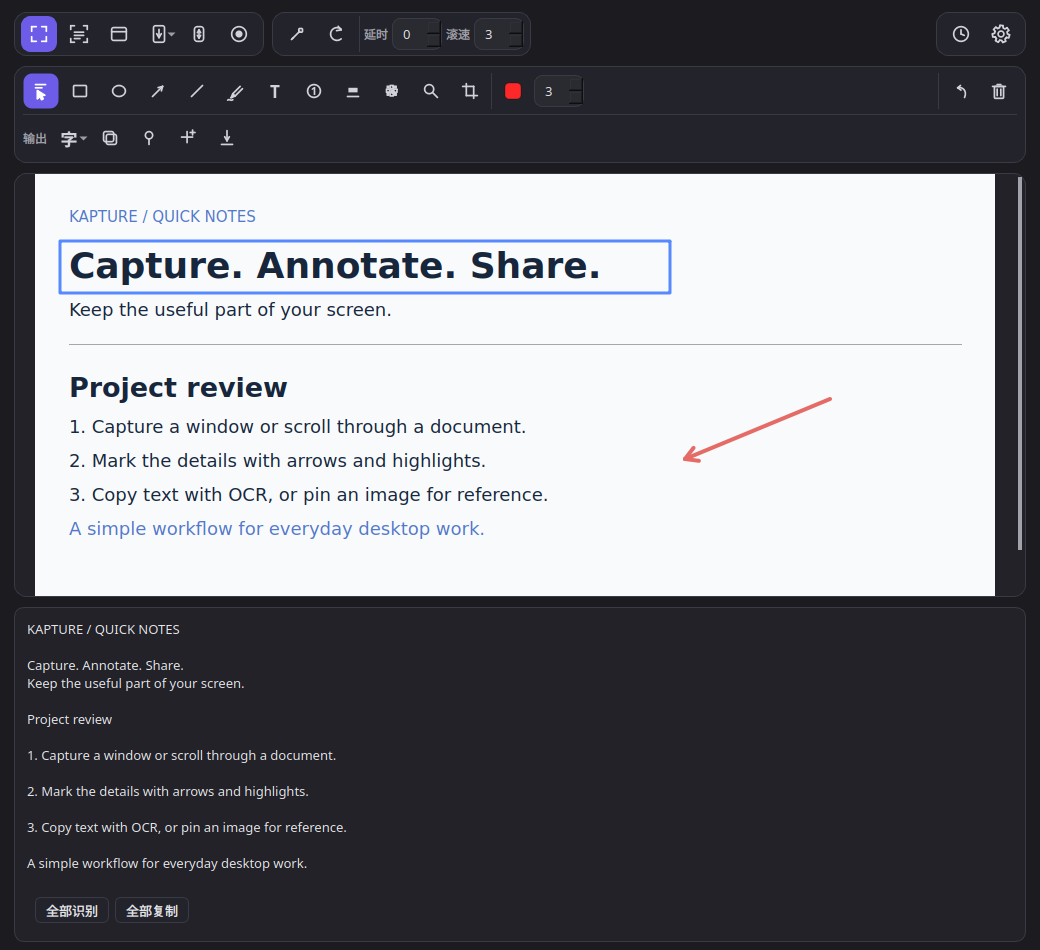
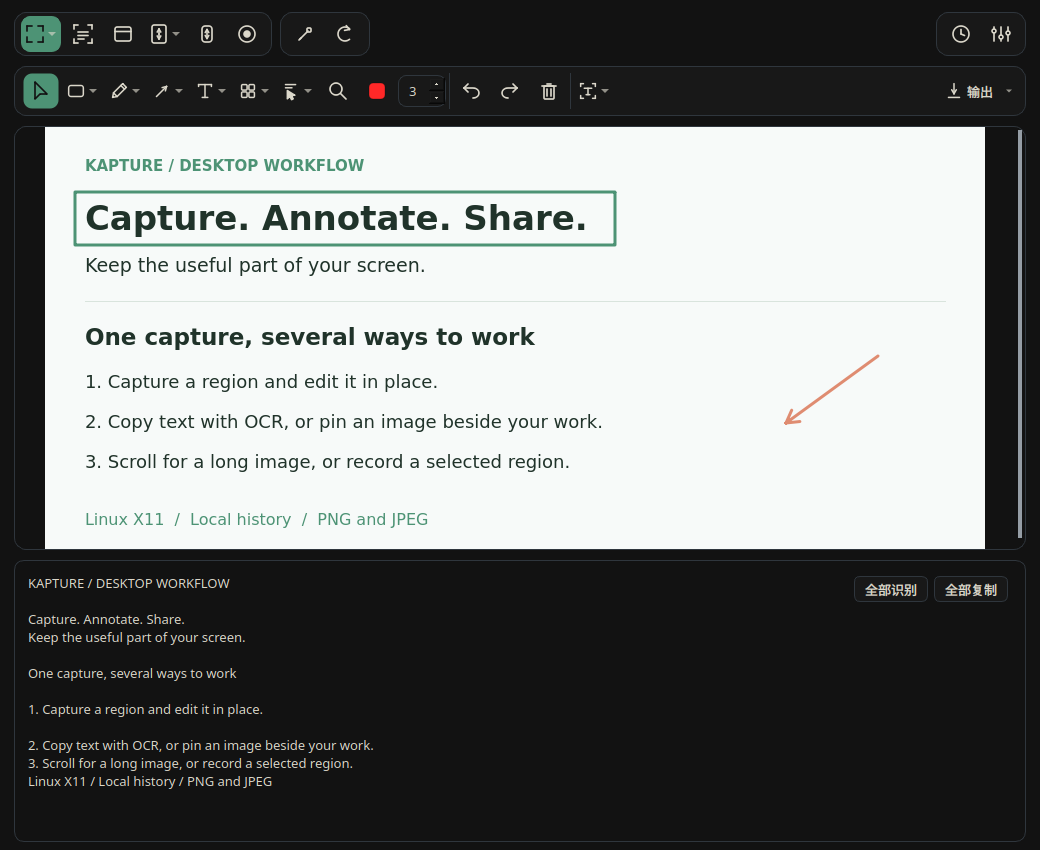
Refresh product READMEs and current interface screenshots

diff --git a/README.md b/README.md
@@ -4,11 +4,11 @@
 
 # Kapture Dev
 
-**An open-source PixPin alternative for Linux**
+**An open-source PixPin alternative for Linux X11**
 
 Screenshots · Scrolling capture · OCR · Pinned images · Annotation · Recording
 
-Capture, extract text, and keep visual references at hand on Linux X11.
+Capture, annotate, extract text, and keep visual references at hand in one X11 workflow.
 
 [简体中文](README.zh-CN.md) · [Quick start](#quick-start) · [Features](#features) · [Report an issue](https://github.com/CyberAn-Dev/kapture-dev/issues)
 
@@ -21,27 +21,45 @@ Capture, extract text, and keep visual references at hand on Linux X11.
 
 <img src="docs/images/editor.png" alt="Kapture Dev editor" width="900" />
 
-<sub>Current editor with demonstration content and OCR results.</sub>
+<sub>Full editor with annotations, OCR results, and the output menu. Screenshots use sample content.</sub>
 
 </div>
 
+<details>
+<summary>In-place editing and recording controls</summary>
+
+<div align="center">
+
+<img src="docs/images/capture.png" alt="Resize the blue selection and annotate immediately." width="900" />
+
+<sub>Resize the blue selection and annotate immediately.</sub>
+
+<img src="docs/images/recording.png" alt="Choose frame rate, resolution, countdown, and duration from dropdowns." width="525" />
+
+<sub>Choose frame rate, resolution, countdown, and duration from dropdowns.</sub>
+
+</div>
+
+</details>
+
 ## A familiar capture workflow
 
-- **Capture and explain**: select a region or snap to a window, add arrows, numbered steps, or mosaic, then copy and share.
-- **Get text out of images**: use automatic OCR, select part of an image, or grab text directly from the screen.
+- **Capture and explain**: every capture opens in inline editing. Select a region or window, add arrows, numbered steps, or mosaic, then copy or save; open the full editor when you need more space.
+- **Get text out of images**: open a capture in the full editor for automatic OCR, select words in the image, or grab text directly from the screen.
 - **Keep references beside your work**: pin clipboard images, zoom, and adjust opacity.
-- **Go beyond one screen**: capture automatically or scroll manually, revisiting content without appending it twice.
+- **Go beyond one screen**: capture automatically or scroll manually inside a red frame, with live preview and duplicate-aware stitching.
 
 ## Features
 
 | Tool | What it does |
 | --- | --- |
-| Capture | Resize the blue selection with eight handles and a pixel loupe; use grouped tools in a single-row toolbar. |
-| Scrolling capture | Start manual scrolling in the red frame from the toolbar; automatic up/down modes, live preview, and duplicate-aware stitching. |
-| OCR | Chinese and English recognition, automatic OCR after capture, editor text selection, and screen text grab. |
+| Capture | Resize the blue selection with eight handles and a pixel loupe; use grouped tools in a single-row toolbar and edit immediately in place. |
+| Scrolling capture | Start a red-frame capture from the toolbar; manual and automatic up/down modes provide a live preview and duplicate-aware stitching. |
+| OCR | Chinese and English recognition, word selection in images, and screen text grab; opening a capture in the full editor runs OCR by default. |
 | Pin images | Keep images on top, zoom, adjust opacity, annotate with the grouped toolbar, and drag across recognized words to copy. |
-| Edit and save | Undo/redo, move/delete annotations, change color/width, type directly on the canvas and double-click to edit text, crop, and save the annotated image at its original size. |
-| Record | A region-adjacent recording toolbar from inline capture and the editor: dropdown presets and custom inputs for frame rate, resolution, countdown and duration. Choose MP4, GIF or MKV afterwards, with multiple exports and progress feedback. |
+| Edit and save | Undo/redo, move/delete annotations, change color/width, type directly on the canvas and double-click to edit text, crop, and save original-size PNG or JPEG images with annotations. |
+| Record | Use the region-adjacent recording toolbar from inline capture or the editor. Choose frame rate, resolution, countdown, and duration; export MP4, GIF, or MKV afterwards, with progress and multiple exports. |
+| History | Keep up to 10 screenshot entries with timestamps and 10 clipboard-image entries on this machine; both collections survive restarts. |
 | Desktop | GNOME and KDE Plasma 5 shortcuts, themes, system tray, and background launch. |
 
 The app has English and Simplified Chinese interfaces. OCR uses Tesseract; screen recording uses ffmpeg.
@@ -77,9 +95,9 @@ Upstream [releases](https://github.com/ycwei5/kapture/releases) contain the upst
 
 <div align="center">
 
-<img src="docs/images/settings.png" alt="Kapture Dev settings" width="660" />
+<img src="docs/images/settings.png" alt="Kapture Dev settings" width="560" />
 
-<sub>Configure shortcuts, capture behavior, OCR, and appearance.</sub>
+<sub>Configure shortcuts, capture behavior, OCR and recording defaults, and appearance.</sub>
 
 </div>
 
@@ -98,13 +116,13 @@ GNOME restores saved Kapture shortcuts at startup. Change conflicting combinatio
 | Delete selected annotation | Delete |
 | Stop scrolling capture / close focused pin | Esc |
 
-Captures open in-place editing: Enter copies, Esc cancels, and the toolbar opens the full editor. Right-click a pin to annotate or select text; restore click-through pins from the tray.
+Captures always open in-place editing: Enter copies, Esc cancels, and **Open in editor** hands the image to the full editor. Right-click a pin to annotate or select text; restore click-through pins from the tray.
 
-To capture Kapture itself, enable **Keep the main window visible during screenshots** in **Settings → General**. Capture shortcuts also work while Settings is open and preserve unsaved changes.
+To capture Kapture itself, enable **Keep main window during capture** in **Settings → General**. Capture shortcuts also work while Settings is open and preserve unsaved changes.
 
-Scroll speed lives in the scrolling-capture menu; screenshot delay lives in the capture menu. Recording has its own countdown and duration settings.
+Scroll speed lives in the scrolling-capture menu; screenshot delay lives in the capture menu. Recording has its own frame rate, resolution, countdown, and duration controls, followed by format selection after capture.
 
-History stays on this machine and survives restarts: up to 10 screenshots and 10 clipboard images, with a separate 40-million-pixel budget per collection; the newest image is always retained. Clear both collections from the history window.
+History stays on this machine and survives restarts: up to 10 screenshots with capture timestamps and 10 clipboard images, with a separate 40-million-pixel budget per collection; the newest image is always retained. Clear both collections from the history window.
 
 ## Command line
 
@@ -115,7 +133,7 @@ Run one action with `./run.sh <option>`, for example `./run.sh --region`.
 
 ## How it differs from PixPin
 
-Kapture Dev is an independent open-source fork of [Kapture](https://github.com/ycwei5/kapture), not affiliated with [PixPin](https://pixpin.cn/). It covers everyday screenshot, scrolling capture, OCR, and pinning workflows rather than full feature parity. OCR translation, QR recognition, and recording audio are not currently provided.
+Kapture Dev is an independent open-source fork of [Kapture](https://github.com/ycwei5/kapture), not affiliated with [PixPin](https://pixpin.cn/). It is a focused Linux X11 replacement for PixPin's everyday screenshot workflow: inline editing, OCR, scrolling capture, pinning, and recording are available in one app, while the overall feature set is narrower. OCR translation, QR recognition, and recording audio are not currently provided.
 
 - X11 only; Wayland is not supported. In-app global shortcut setup is available on GNOME and KDE Plasma 5.
 - Scrolling capture is limited to 40,000 pixels in height. Dynamic pages, overlays, lazy loading, and repeated content can affect alignment; it is not a browser full-page export.

diff --git a/PROJECT_STATUS.md b/PROJECT_STATUS.md
@@ -42,7 +42,7 @@
 - Scroll reliability: a reproduced single localized dynamic block no longer rejects a correct overlapping frame when two independent anchors agree. Strict acceptance of smaller separated changes is preserved; gap and repeated-row rejection remain covered.
 - Real X11 validation: actual region-selection pixels equal the demo page; inline drawing, modal text keyboard ownership, editor/pin document transfer and undo/redo passed. Nine scroll runs (manual/down/up with three fixed-edge configurations) each produced the exact expected 1000-pixel image over seven frames with no control hides. This remains controlled-page evidence.
 
-- 2026-10-08: refreshed both READMEs as the current fork product introduction, covering bidirectional scrolling, OCR text grab, clipboard pins, selection snapping, themes, current repository installation and local package builds. Corrected outdated capture-control and fixed-header descriptions; distinguished background launch from login autostart and upstream packages from fork source. Both introductions now lead with the Linux X11 PixPin-alternative positioning, workflow examples, compact feature and shortcut tables, and quick-start instructions; secondary settings content is collapsible. The layout references Flameshot's product README, and explicitly separates everyday workflow coverage from full PixPin feature parity. Replaced editor/settings images with captures of the current Qt widgets using an isolated configuration and demonstration content; the displayed OCR text was produced by Tesseract. Images were visually inspected.
+- 2026-10-09: refreshed both READMEs around the current Linux X11 PixPin-alternative workflow: fixed inline editing, manual editor handoff and automatic OCR, bidirectional long capture, independent recording controls and post-record MP4/GIF/MKV export, ordinary PNG/JPEG saving, timestamped local history and concise settings. Replaced editor/settings images and added capture/recording images from current native Qt widgets using isolated configuration and sample content; the editor’s OCR text came from Tesseract. All four images were visually inspected and both READMEs’ local image references verified. Extra workflow images and settings remain collapsible.
 
 - 2026-10-08 OCR action styling and shortcut labels: removed the hard-coded translucent gray OCR action backdrop; the panel now matches the editor and buttons inherit theme colors with compact sizing. Added the missing pin1/pin2 action-label mappings, so settings no longer calls both region capture. Live GNOME bindings are Ctrl+1 and Ctrl+2. Theme pixel/label regressions and the full 118-test offscreen suite pass; dark/light renders inspected.
 

diff --git a/DECISIONS.md b/DECISIONS.md
@@ -101,9 +101,9 @@
 
 - Keep the current repository-backed application as the local working version and publish its application, test, install and documentation changes together to `origin/main`. Exclude `.serena/` tooling state and generated/runtime artifacts; no `.deb` release is implied by the source push.
 
-## Product documentation (2026-10-08)
+## Product documentation (2026-10-09)
 
-- Maintain matching English and Chinese product READMEs for this fork. Point installation and contribution links at CyberAn-Dev/kapture-dev while retaining upstream attribution. Document local package building without implying a published fork release; use actual current Qt widget captures with demonstration content and isolated settings for product screenshots. Lead with the Linux X11 PixPin-alternative positioning, inspired by the Flameshot README structure (https://github.com/flameshot-org/flameshot#readme). Keep independent upstream attribution and state that this is workflow coverage, not complete PixPin feature parity; retain concrete limitations.
+- Maintain matching English and Chinese product READMEs for this fork. Point installation and contribution links at CyberAn-Dev/kapture-dev while retaining upstream attribution. Document local package building without implying a published fork release; use actual current Qt widget captures with demonstration content and isolated settings for product screenshots. Show the current editor, fixed inline capture, recording toolbar and concise settings in Vitesse Dark; keep secondary screenshots collapsible and avoid enlarging small images beyond their native width. Lead with the Linux X11 PixPin-alternative positioning, inspired by the Flameshot README structure (https://github.com/flameshot-org/flameshot#readme). Keep independent upstream attribution and state that this is workflow coverage, not complete PixPin feature parity; retain concrete limitations.
 
 ## Shared editing and persistent history (2026-10-08)
 
